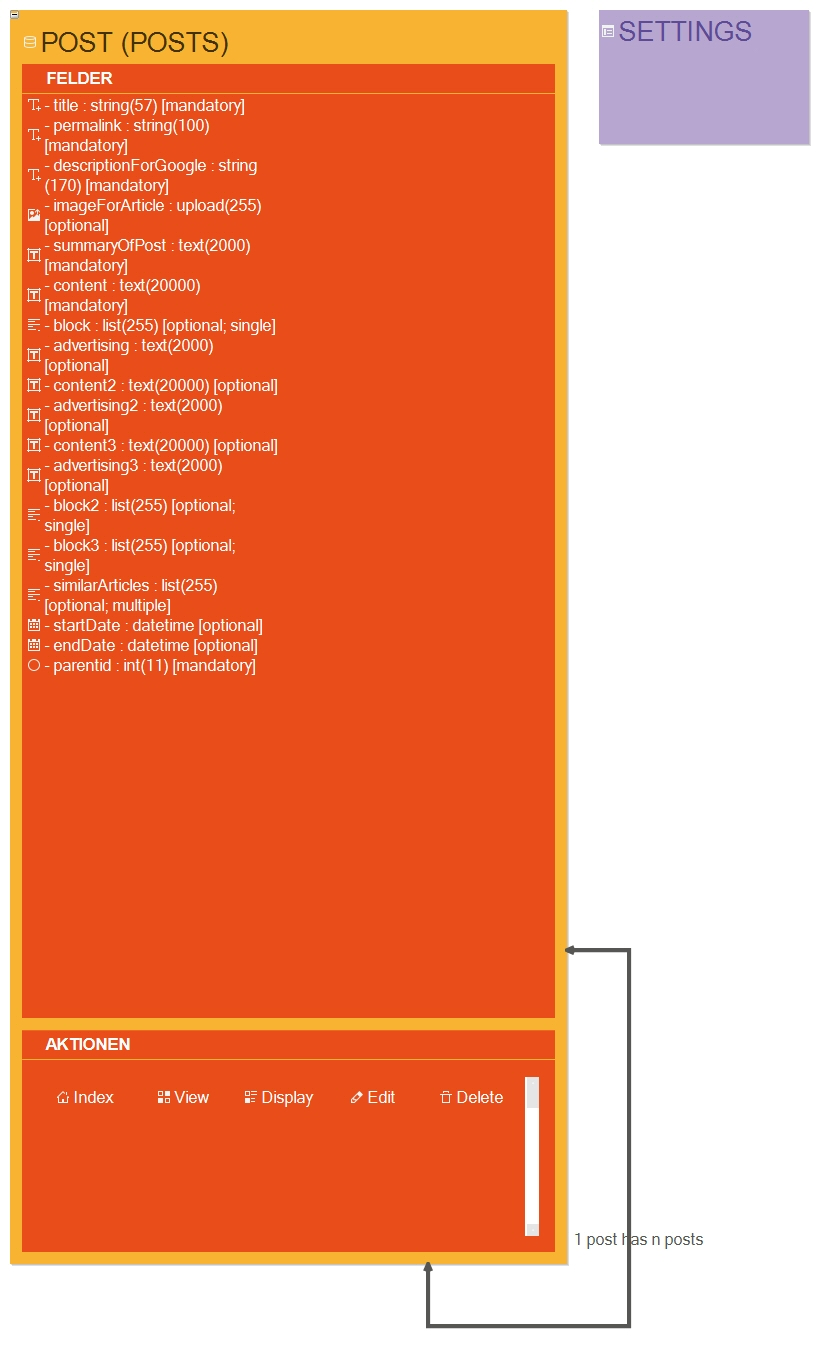
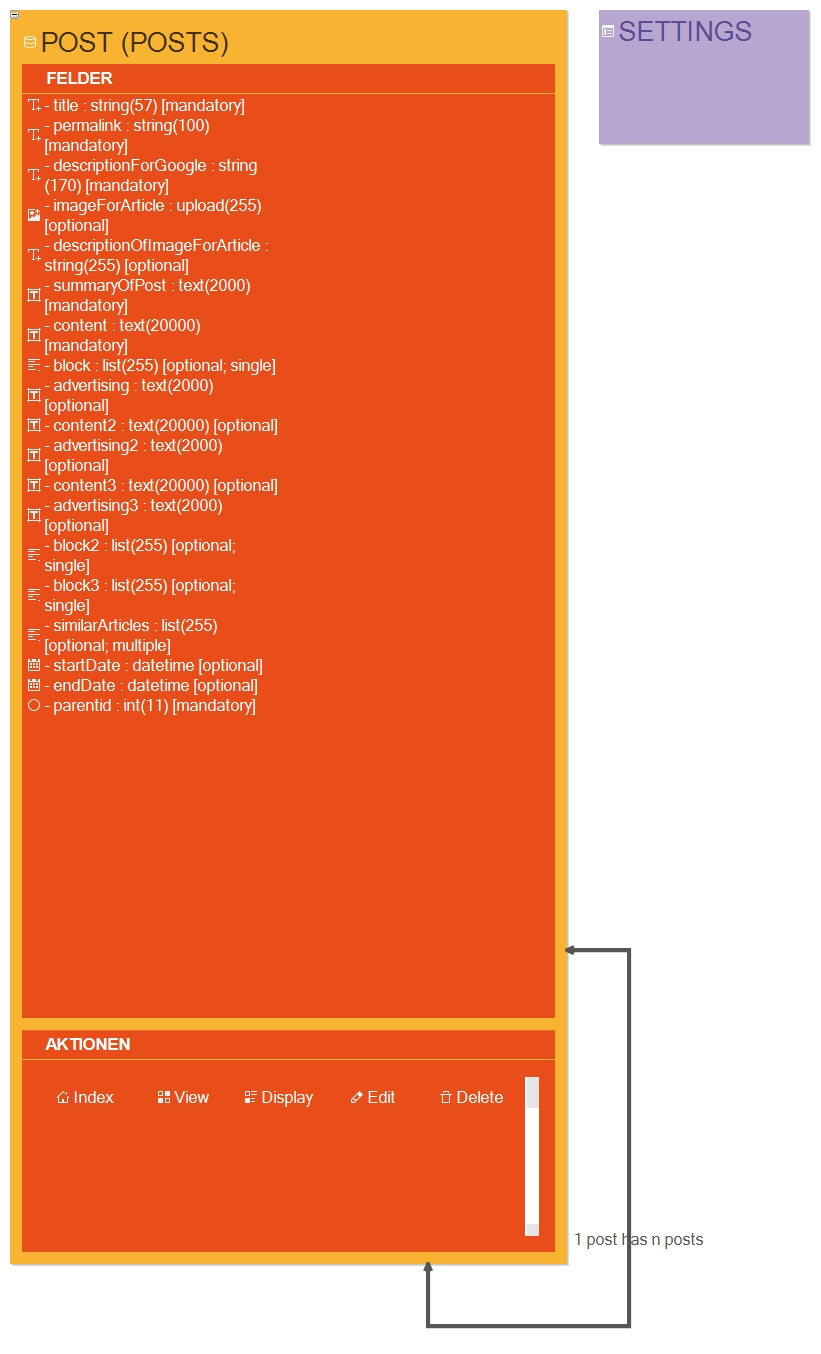
new field for image description

Changed region(s): [[0.0305, 0.1551, 0.335, 0.5273]]

diff --git a/MU/BloggingModule/Entity/Base/AbstractPostEntity.php b/MU/BloggingModule/Entity/Base/AbstractPostEntity.php
@@ -126,6 +126,16 @@ abstract class AbstractPostEntity extends EntityAccess implements Translatable
     protected $imageForArticleUrl = '';
     
     /**
+     * Will set into the alt tag of this image.
+     * @Gedmo\Translatable
+     * @ORM\Column(length=255)
+     * @Assert\NotNull()
+     * @Assert\Length(min="0", max="255")
+     * @var string $descriptionOfImageForArticle
+     */
+    protected $descriptionOfImageForArticle = '';
+    
+    /**
      * @Gedmo\Translatable
      * @ORM\Column(type="text", length=2000)
      * @Assert\NotBlank()
@@ -502,6 +512,28 @@ abstract class AbstractPostEntity extends EntityAccess implements Translatable
     public function setImageForArticleMeta($imageForArticleMeta = [])
     {
         $this->imageForArticleMeta = $imageForArticleMeta;
+    }
+    
+    /**
+     * Returns the description of image for article.
+     *
+     * @return string
+     */
+    public function getDescriptionOfImageForArticle()
+    {
+        return $this->descriptionOfImageForArticle;
+    }
+    
+    /**
+     * Sets the description of image for article.
+     *
+     * @param string $descriptionOfImageForArticle
+     *
+     * @return void
+     */
+    public function setDescriptionOfImageForArticle($descriptionOfImageForArticle)
+    {
+        $this->descriptionOfImageForArticle = isset($descriptionOfImageForArticle) ? $descriptionOfImageForArticle : '';
     }
     
     /**

diff --git a/MU/BloggingModule/Form/Type/Base/AbstractPostType.php b/MU/BloggingModule/Form/Type/Base/AbstractPostType.php
@@ -171,6 +171,22 @@ abstract class AbstractPostType extends AbstractType
             'required' => true,
         ]);
         
+        $builder->add('descriptionOfImageForArticle', 'Symfony\Component\Form\Extension\Core\Type\TextType', [
+            'label' => $this->__('Description of image for article') . ':',
+            'label_attr' => [
+                'class' => 'tooltips',
+                'title' => $this->__('Will set into the alt tag of this image.')
+            ],
+            'help' => $this->__('Will set into the alt tag of this image.'),
+            'empty_data' => '',
+            'attr' => [
+                'maxlength' => 255,
+                'class' => '',
+                'title' => $this->__('Enter the description of image for article of the post')
+            ],
+            'required' => false,
+        ]);
+        
         $builder->add('summaryOfPost', 'Symfony\Component\Form\Extension\Core\Type\TextareaType', [
             'label' => $this->__('Summary of post') . ':',
             'empty_data' => '',

diff --git a/MU/BloggingModule/Entity/Repository/Base/AbstractPostRepository.php b/MU/BloggingModule/Entity/Repository/Base/AbstractPostRepository.php
@@ -64,6 +64,7 @@ abstract class AbstractPostRepository extends EntityRepository
             'title',
             'descriptionForGoogle',
             'imageForArticle',
+            'descriptionOfImageForArticle',
             'summaryOfPost',
             'block',
             'advertising',
@@ -745,6 +746,8 @@ abstract class AbstractPostRepository extends EntityRepository
         $parameters['searchDescriptionForGoogle'] = '%' . $fragment . '%';
         $filters[] = 'tbl.imageForArticle = :searchImageForArticle';
         $parameters['searchImageForArticle'] = $fragment;
+        $filters[] = 'tbl.descriptionOfImageForArticle LIKE :searchDescriptionOfImageForArticle';
+        $parameters['searchDescriptionOfImageForArticle'] = '%' . $fragment . '%';
         $filters[] = 'tbl.summaryOfPost LIKE :searchSummaryOfPost';
         $parameters['searchSummaryOfPost'] = '%' . $fragment . '%';
         $filters[] = 'tbl.content LIKE :searchContent';

diff --git a/MU/BloggingModule/Form/Type/QuickNavigation/Base/AbstractPostQuickNavType.php b/MU/BloggingModule/Form/Type/QuickNavigation/Base/AbstractPostQuickNavType.php
@@ -307,6 +307,7 @@ abstract class AbstractPostQuickNavType extends AbstractType
                     $this->__('Title') => 'title',
                     $this->__('Description for google') => 'descriptionForGoogle',
                     $this->__('Image for article') => 'imageForArticle',
+                    $this->__('Description of image for article') => 'descriptionOfImageForArticle',
                     $this->__('Summary of post') => 'summaryOfPost',
                     $this->__('Block') => 'block',
                     $this->__('Advertising') => 'advertising',

diff --git a/MU/BloggingModule/Form/Type/Finder/Base/AbstractPostFinderType.php b/MU/BloggingModule/Form/Type/Finder/Base/AbstractPostFinderType.php
@@ -182,6 +182,7 @@ abstract class AbstractPostFinderType extends AbstractType
                     $this->__('Title') => 'title',
                     $this->__('Description for google') => 'descriptionForGoogle',
                     $this->__('Image for article') => 'imageForArticle',
+                    $this->__('Description of image for article') => 'descriptionOfImageForArticle',
                     $this->__('Summary of post') => 'summaryOfPost',
                     $this->__('Block') => 'block',
                     $this->__('Advertising') => 'advertising',

diff --git a/MU/BloggingModule/Helper/Base/AbstractTranslatableHelper.php b/MU/BloggingModule/Helper/Base/AbstractTranslatableHelper.php
@@ -88,7 +88,7 @@ abstract class AbstractTranslatableHelper
         $fields = [];
         switch ($objectType) {
             case 'post':
-                $fields = ['title', 'permalink', 'descriptionForGoogle', 'summaryOfPost', 'content', 'advertising', 'content2', 'advertising2', 'content3', 'advertising3'];
+                $fields = ['title', 'permalink', 'descriptionForGoogle', 'descriptionOfImageForArticle', 'summaryOfPost', 'content', 'advertising', 'content2', 'advertising2', 'content3', 'advertising3'];
                 break;
         }
     

diff --git a/MU/BloggingModule/Helper/Base/AbstractSearchHelper.php b/MU/BloggingModule/Helper/Base/AbstractSearchHelper.php
@@ -173,6 +173,7 @@ abstract class AbstractSearchHelper implements SearchableInterface
                     $whereArray[] = 'tbl.permalink';
                     $whereArray[] = 'tbl.descriptionForGoogle';
                     $whereArray[] = 'tbl.imageForArticle';
+                    $whereArray[] = 'tbl.descriptionOfImageForArticle';
                     $whereArray[] = 'tbl.summaryOfPost';
                     $whereArray[] = 'tbl.content';
                     $whereArray[] = 'tbl.block';

diff --git a/MU/BloggingModule/Controller/Base/AbstractPostController.php b/MU/BloggingModule/Controller/Base/AbstractPostController.php
@@ -147,6 +147,7 @@ abstract class AbstractPostController extends AbstractController
             new Column('title'),
             new Column('descriptionForGoogle'),
             new Column('imageForArticle'),
+            new Column('descriptionOfImageForArticle'),
             new Column('summaryOfPost'),
             new Column('block'),
             new Column('advertising'),

diff --git a/MU/BloggingModule/Base/bootstrap.php b/MU/BloggingModule/Base/bootstrap.php
@@ -7,7 +7,7 @@
  * @author Michael Ueberschaer <info@homepages-mit-zikula.de>.
  * @link http://homepages-mit-zikula.de
  * @link http://zikula.org
- * @version Generated by ModuleStudio 0.7.4 (http://modulestudio.de) at Wed Apr 19 16:43:42 CEST 2017.
+ * @version Generated by ModuleStudio 0.7.4 (http://modulestudio.de) at Wed Apr 19 18:27:11 CEST 2017.
  */
 
 /**

diff --git a/MU/BloggingModule/bootstrap.php b/MU/BloggingModule/bootstrap.php
@@ -7,7 +7,7 @@
  * @author Michael Ueberschaer <info@homepages-mit-zikula.de>.
  * @link http://homepages-mit-zikula.de
  * @link http://zikula.org
- * @version Generated by ModuleStudio 0.7.4 (http://modulestudio.de) at Wed Apr 19 16:43:42 CEST 2017.
+ * @version Generated by ModuleStudio 0.7.4 (http://modulestudio.de) at Wed Apr 19 18:27:11 CEST 2017.
  */
 
 /**
